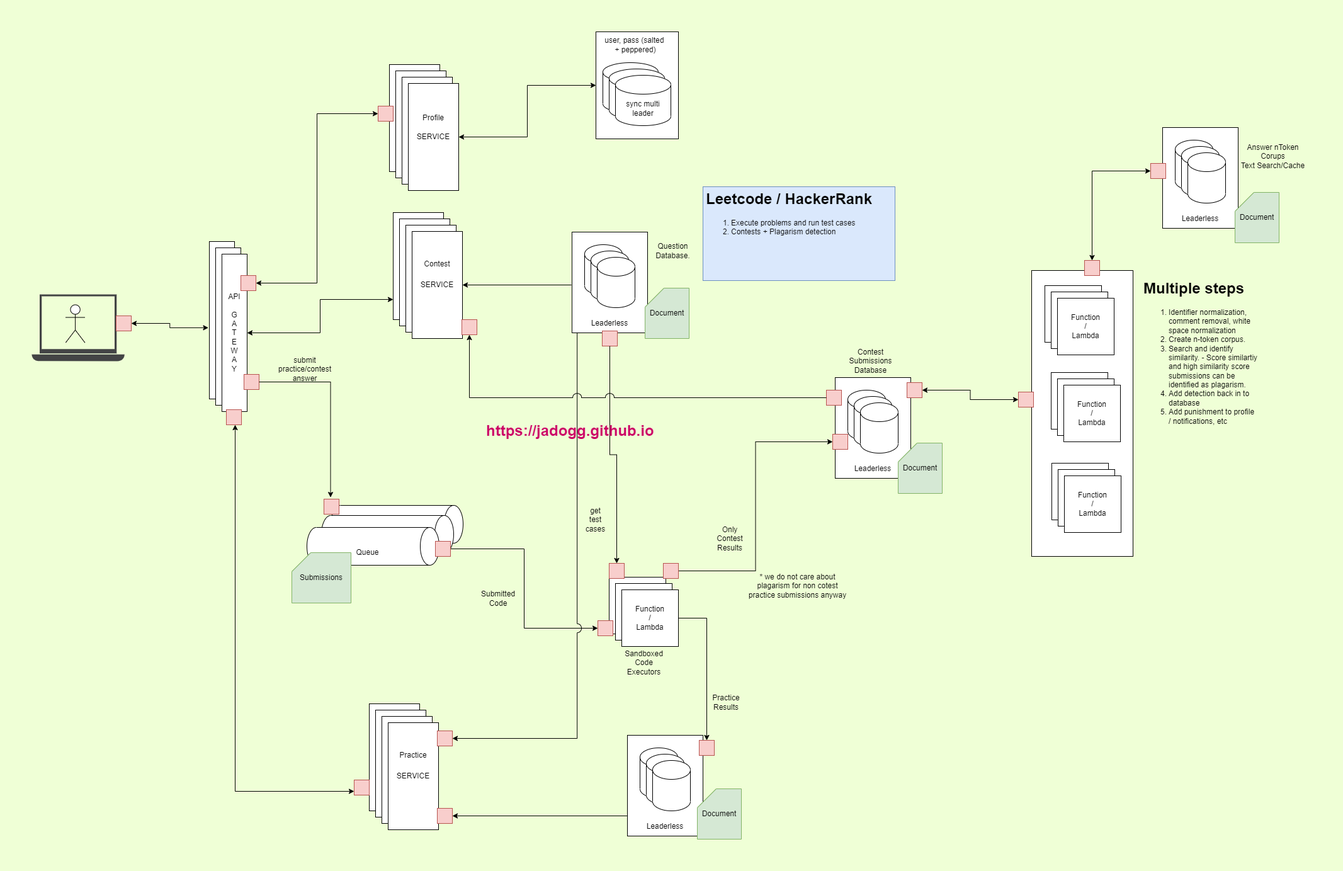
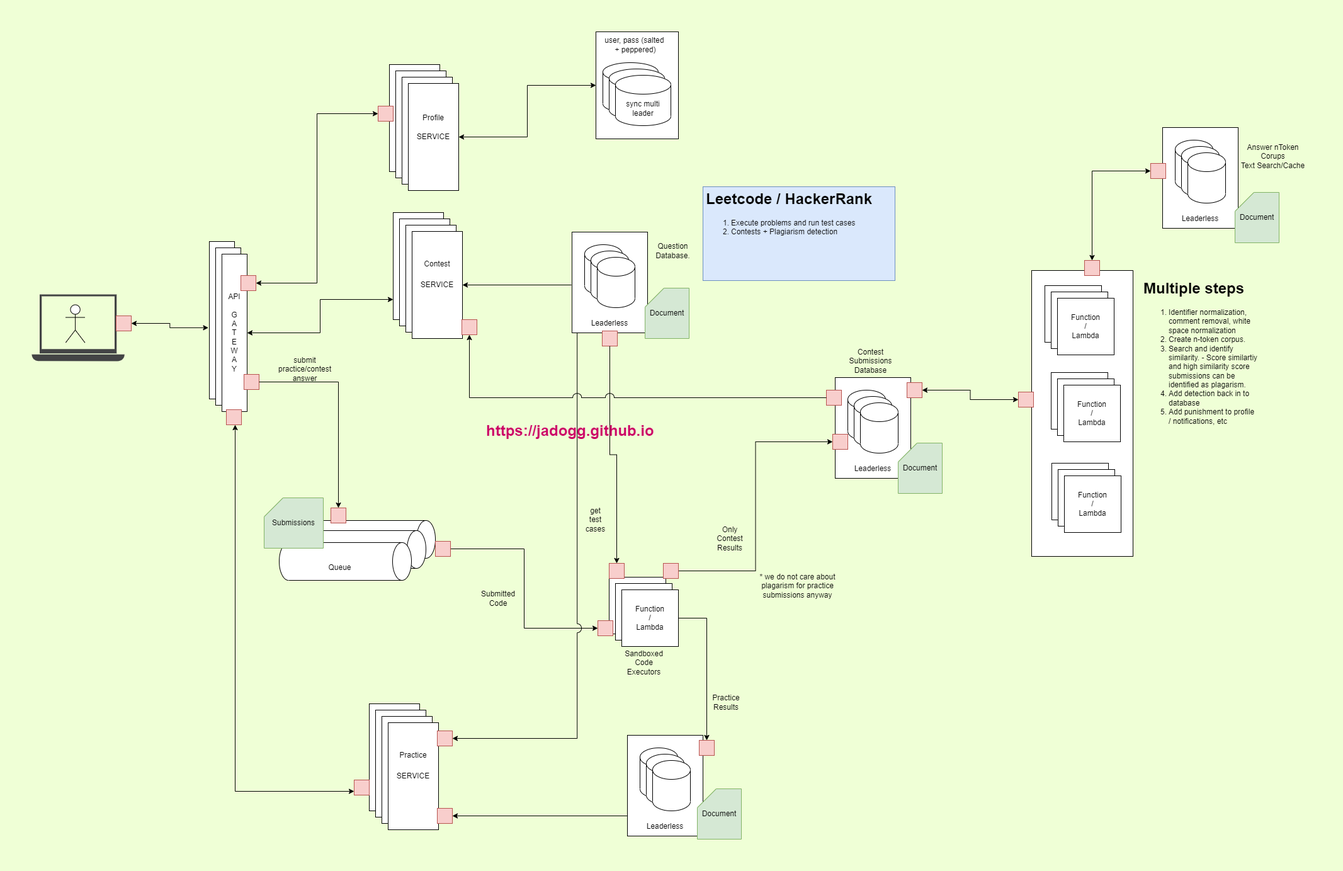
Fix numbering, added leetcode design rationale

Changed region(s): [[0.1857, 0.5597, 0.3713, 0.7151], [0.557, 0.6529, 0.6188, 0.684], [0.5879, 0.2487, 0.6188, 0.2798]]

diff --git a/docs/sdt.html b/docs/sdt.html
@@ -1,1 +1,1 @@
-<!doctypehtml><html lang="en"><meta charset="utf-8"><title>JaDogg&#x27;s Website</title><link rel="apple-touch-icon"sizes="180x180"href="/apple-touch-icon.png"><link rel="icon"type="image/png"sizes="32x32"href="/favicon-32x32.png"><link rel="icon"type="image/png"sizes="16x16"href="/favicon-16x16.png"><link rel="manifest"href="/site.webmanifest"><link rel="mask-icon"href="/safari-pinned-tab.svg"color="#5bbad5"><meta name="msapplication-TileColor"content="#da532c"><meta name="theme-color"content="#ffffff"><meta name="description"content="JaDogg&#x27;s Website"><meta name="viewport"content="width=device-width,initial-scale=1"><link rel="preconnect"href="https://fonts.googleapis.com"><link rel="preconnect"href="https://fonts.gstatic.com"crossorigin><link href="https://fonts.googleapis.com/css2?family=Roboto+Mono:wght@200&display=swap"rel="stylesheet"><link href="https://fonts.googleapis.com/css2?family=Ubuntu:wght@500&display=swap"rel="stylesheet"><link rel="stylesheet"href="/assets/style.min.css"id="theme-link"><div class="container"><h1 class="center-text">JaDogg&#x27;s Website</h1><div class="table-of-contents"><p>Pages<nav><a href="/">Home</a></nav><button id="btn-toggle"class="button action-button">Let there be light</button><div>&nbsp;</div><p>Projects</p><a href="/yaksha.html">YakshaLang</a> | <a href="/sdt.html">SystemDesignToolkit</a> | <a href="/docbox.html">DocBox</a><div class="real-toc"><div>&nbsp;</div><p>Table of Content<div class="toc-item"><a href="#introduction">[1] Introduction</a></div><div class="toc-item"><a href="#usage-samples">[2] Usage Samples</a></div><div class="toc-item"><a href="#tinder-system-design">[2.1] Tinder System Design</a></div><div class="toc-item"><a href="#how-to-find-people-close-to-you">[2.1.1] How to find people close to you?</a></div><div class="toc-item"><a href="#quad-tree">[2.1.1.1] Quad Tree</a></div><div class="toc-item"><a href="#querying-nearby-people">[2.1.1.2] Querying nearby people</a></div><div class="toc-item"><a href="#geo-sharding">[2.1.1.3] Geo-sharding</a></div><div class="toc-item"><a href="#matching-and-likes">[2.1.1.4] Matching and likes</a></div><div class="toc-item"><a href="#rest-of-the-system">[2.1.2] Rest of the system</a></div><div class="toc-item"><a href="#authentication-and-security">[2.1.2.1] Authentication and security</a></div><div class="toc-item"><a href="#storing-images">[2.1.2.2] Storing images</a></div><div class="toc-item"><a href="#caches-and-power-law-distribution">[2.1.2.2.1] Caches and power law distribution</a></div><div class="toc-item"><a href="#image-formats">[2.1.2.2.2] Image formats</a></div><div class="toc-item"><a href="#bibliography">[2.1.2.3] Bibliography</a></div><div class="toc-item"><a href="#leetcode-hacker-rank-system-design">[2.1.3] Leetcode / Hacker rank system design</a></div><div class="toc-item"><a href="#components">[3] Components</a></div><div class="toc-item"><a href="#services-and-related-components">[3.1] Services and related components</a></div><div class="toc-item"><a href="#service">[3.1.1] Service</a></div><div class="toc-item"><a href="#algorithms-and-data-structures">[3.2] Algorithms and data structures</a></div><div class="toc-item"><a href="#quad-tree">[3.2.1] Quad tree</a></div><div class="toc-item"><a href="#utilities">[3.3] Utilities</a></div><div class="toc-item"><a href="#pros-cons-box">[3.3.1] Pros-Cons Box</a></div></div></div><div class="boxes"><hr><div class="box"><div class="content"><div class="banner-image"><img alt="System Design Toolkit"src="images/system-design-tooklit-banner.png"style="max-width:100%"></div></div><div class="note"></div></div><div class="box"><div class="content"><h2 id="introduction">[1] Introduction</h2></div><div class="note"></div></div><div class="box"><div class="content"><p>I got an idea to come up with set of reusable (technology oblivious) building blocks for system design. Main point is you can either use it diagrams.net (or desktop version), whiteboard or any other tool you like. I use it myself and there's no reason for people other than me to use it. I'm designing this backwards from system design diagrams, so I will come up with multiple system designs and extract common components. Any form of constructive criticism is appreciated as usual.</div><div class="note"><p>🤔 Disagreeing for the sake of it is bad, cargo-culting is bad, somewhere middle is probably zen. - Me.</div></div><div class="box"><div class="content"><hr><h2 id="usage-samples">[2] Usage Samples</h2></div><div class="note"><hr></div></div><div class="box"><div class="content"><p>For usage examples I am planning on trying few system designs of well known software that anyone would be aware of. I'll be diving as deep as I think is necessary to explain my design here. By making myself come up with these designs I achieve two things. First of all I get to see what kind of common components are present in these system designs. I also get to publicly practice system design and expose myself to criticism.</div><div class="note"><p>Hopefully constructive criticism.</div></div><div class="box"><div class="content"><hr><h3 id="tinder-system-design">[2.1] Tinder System Design</h3></div><div class="note"><hr></div></div><div class="box"><div class="content"><a href="images/system-design-tinder.png"target="_blank"rel="noopener noreferrer"><img alt="Tinder Design, contain a diagram with arrows pointing to services"src="images/system-design-tinder.png"style="max-width:100%"></a></div><div class="note"><p>I'm up for suggestions. If you got an idea let me know.<p><span class="yellow-status">in progress</span></div></div><div class="box"><div class="content"><h4 id="how-to-find-people-close-to-you">[2.1.1] How to find people close to you?</h4><p>Main crux of this design is to find a suitable methodology to find people close to you.<ul><li><p>We can use Google S3 or Uber H3 - Both are ready-made libraries for this task.<li><p>We can use geo-hash prefix matching. This is a human-readable format, and you can easily look at two hashes and if they are closer based on the prefix.<li><p>Creating our own library - quad tree.</ul><h5 id="quad-tree">[2.1.1.1] Quad Tree</h5><p>This is an important data structure that we can use if we want to come up with this ourselves. Think of this as a structure that allows you to break down a square to four small squares, and you can keep going until it is very small. Internally it is a tree with 4 children.</p><img alt="3 Squares with quad-tree breakdown"src="images/sdt-quad-tree.png"style="max-width:100%"></div><div class="note"></div></div><div class="box"><div class="content"><h5 id="querying-nearby-people">[2.1.1.2] Querying nearby people</h5><p>In above design we assumed that we use can find nearby users by simply looking at the profile database. However, we did not dive deep into what we need to ensure that we properly distribute profile data so we do not brown out a single node.</div><div class="note"></div></div><div class="box"><div class="content"><h5 id="geo-sharding">[2.1.1.3] Geo-sharding</h5><p>Geo sharding is a concept where we map roughly similar user count regions of the world in to different shards of the database. This is a load balancing mechanism and a way to avoid querying a lot of nodes and wasting time. As explained in Tinder blog posts they came up with shards by experimenting and finding out which amount of shards and how it was distributed resulted in good p50, p90 and p99 latency metrics. Example - London can be placed in one geo-shard while most of the Australian desert can also be placed in a single geo-shard. So the actual number of users would impact this rather than surface area on Earth.</div><div class="note"><p>Geo-sharding is a form of load balancing.</div></div><div class="box"><div class="content"><h5 id="matching-and-likes">[2.1.1.4] Matching and likes</h5><p>For this I'm thinking we can use a queue and set of serverless functions/lambdas to process incoming likes and write that to a database/cache. And we can use another set of lambdas to turn matches to notifications.</div><div class="note"><p>System that can spin up on-demand functions and distributed queues are (sub)systems of this system.</div></div><div class="box"><div class="content"><h4 id="rest-of-the-system">[2.1.2] Rest of the system</h4></div><div class="note"></div></div><div class="box"><div class="content"><h5 id="authentication-and-security">[2.1.2.1] Authentication and security</h5><p>For a secure system we need to consider <code>AAA</code> (Authentication , Authorization, and Accounting). However, there is no need to do implement a <code>RBAC</code> (Role-based access control) for end-users of the system. They will all be able to log-in to their own account and use the application. <code>RBAC</code> and full <code>AAA</code> is however important for internal teams and any admin applications used internally.<p>So from system design perspective something like eventual consistency does not make sense for passwords. Passwords themselves we cannot store in a database like you would with any other data.<ul><li><p>OWASP recommend <code>Argon2id</code> these days (<code>scrypt</code> and <code>PBKDF2-HMAC-SHA512</code> with <code>120k</code> iterations is also sufficient).<li><p>We can also use <code>peppering</code> for further security.<li><p>Another alternative is to sign in using email and never store any passwords.<li><p>It is also better to avoid coming up with own cryptographical algorithms.<li><p>It is perfectly fine to write it yourself for everything else. Having too many dependencies open yourself up to a lot of vulnerabilities.</ul><p>Getting back to why not eventual consistency, it is because if you change the password - It needs either successfully change everywhere or not change at all. This disallows a bad actor to luck into the system.</div><div class="note"><p>We can design authentication as a system as well.</div></div><div class="box"><div class="content"><h5 id="storing-images">[2.1.2.2] Storing images</h5><p>For a service such as Tinder images are essential. However, images are not required to find nearby users. It is however essential for users to see other users' images. Therefore, we can use on-disk storage for images and have a reference to it in our profile database. So when a user browse a profile we can get request these images on demand. It make sense to use a distributed file system.</div><div class="note"><p><code>DFS</code> (Distributed file system) is a (sub)system that we use in this system.</div></div><div class="box"><div class="content"><h6 id="caches-and-power-law-distribution">[2.1.2.2.1] Caches and power law distribution</h6><p>Caches or in this case specifically a <code>CDN</code> (Content delivery network) which is also another system on its own can help us scale with the load to access these user images. Let's think of celebrity situation, suddenly a recently divorced famous actor/actress creates a Tinder account. Now everyone wants to look at their images and swipe (whatever side for like). This is a good use-case for a <code>CDN</code> as these celebrity images are now cached.<p>Since the number of requests for an account is distributed in a power law distribution due to pareto principle. We can assume that the CDN can use a <code>LRU</code> (Least recently used) cache eviction mechanism. This way most recently used image will be kept hot in the cache.</div><div class="note"><p>Likes, Money and Followers this all work in a power law distribution, those who have more will always get more.</div></div><div class="box"><div class="content"><h6 id="image-formats">[2.1.2.2.2] Image formats</h6><p>Thumbnails for images is essential, and we can use a lossy data format such as JPG for thumbnails. Another good alternative is WebP. Also, PNGs can be used if we need any crisp images, but we can just use JPG for that as well.</div><div class="note"><p>Google's WebP format is support across most browsers and platforms these days.</div></div><div class="box"><div class="content"><h4 id="bibliography">[2.1.2.3] Bibliography</h4><details><summary>Bibliography for Tinder Design</summary><small><small><p>AAA (computer security). (2022). Wikipedia. Available from https://en.wikipedia.org/w/index.php?title=AAA_(computer_security)&amp;oldid=1068643459 [Accessed 1 July 2022].<p>Designing Tinder - High Scalability -. (no date). Available from http://highscalability.com/blog/2022/1/17/designing-tinder.html [Accessed 1 July 2022].<p>Geometry on the Sphere: Google\x27s S2 Library. (no date). Available from https://docs.google.com/presentation/d/1Hl4KapfAENAOf4gv-pSngKwvS_jwNVHRPZTTDzXXn6Q [Accessed 1 July 2022].<p>GKQuadtree | Apple Developer Documentation. (no date). Available from https://developer.apple.com/documentation/gameplaykit/gkquadtree [Accessed 1 July 2022].<p>Li, X. (2019). Geosharded Recommendations Part 2: Architecture. Tinder Tech Blog. Available from https://medium.com/tinder/geosharded-recommendations-part-2-architecture-3396a8a7efb [Accessed 1 July 2022].<p>Pareto principle. (2022). Wikipedia. Available from https://en.wikipedia.org/w/index.php?title=Pareto_principle&amp;oldid=1095743858 [Accessed 1 July 2022].<p>Password Storage - OWASP Cheat Sheet Series. (no date). Available from https://cheatsheetseries.owasp.org/cheatsheets/Password_Storage_Cheat_Sheet.html#pbkdf2 [Accessed 1 July 2022].<p>Passwordless authentication. (2022). Wikipedia. Available from https://en.wikipedia.org/w/index.php?title=Passwordless_authentication&amp;oldid=1082243741 [Accessed 1 July 2022].<p>Power law. (2022). Wikipedia. Available from https://en.wikipedia.org/w/index.php?title=Power_law&amp;oldid=1091370904 [Accessed 1 July 2022].<p>Ren, F. (2019). Geosharded Recommendations Part 1: Sharding Approach. Tinder Tech Blog. Available from https://medium.com/tinder/geosharded-recommendations-part-1-sharding-approach-d5d54e0ec77a [Accessed 1 July 2022].<p>Role-based access control. (2022). Wikipedia. Available from https://en.wikipedia.org/w/index.php?title=Role-based_access_control&amp;oldid=1094481919 [Accessed 1 July 2022].<p>S2 Geometry. (no date). S2Geometry. Available from http://s2geometry.io/ [Accessed 1 July 2022].<p>Thomson, D. (2019). Geosharded Recommendations Part 3: Consistency. Tinder Tech Blog. Available from https://medium.com/tinder/geosharded-recommendations-part-3-consistency-2d2cb2f0594b [Accessed 1 July 2022].<p>Tran, J. (2019). Which Image Format for Making Smaller File Size? GretaThemes. Available from https://gretathemes.com/image-format-for-smaller-file-size/ [Accessed 1 July 2022].<p>UV mapping. (2022). Wikipedia. Available from https://en.wikipedia.org/w/index.php?title=UV_mapping&amp;oldid=1094514074 [Accessed 1 July 2022].<p>WebP Compression Study. (no date). Google Developers. Available from https://developers.google.com/speed/webp/docs/webp_study [Accessed 1 July 2022].<p>What is a Quadtree &amp; how is it used in location-based services? (no date). Available from https://www.educative.io/answers/what-is-a-quadtree-how-is-it-used-in-location-based-services [Accessed 1 July 2022].<p>Whited, S. (no date). Best practices for password hashing and storage. Internet Engineering Task Force. Available from https://datatracker.ietf.org/doc/draft-ietf-kitten-password-storage-04 [Accessed 1 July 2022].</small></small></details></div><div class="note"></div></div><div class="box"><div class="content"><hr><h3 id="leetcode-hacker-rank-system-design">[2.1.3] Leetcode / Hacker rank system design</h3></div><div class="note"><hr></div></div><div class="box"><div class="content"><a href="images/system-design-leetcode.png"target="_blank"rel="noopener noreferrer"><img alt="Tinder Design, contain a diagram with arrows pointing to services"src="images/system-design-leetcode.png"style="max-width:100%"></a></div><div class="note"><p>I'm up for suggestions for this as well.<p><span class="yellow-status">in progress</span></div></div><div class="box"><div class="content"><hr><h2 id="components">[3] Components</h2></div><div class="note"><hr></div></div><div class="box"><div class="content"><h3 id="services-and-related-components">[3.1] Services and related components</h3></div><div class="note"></div></div><div class="box"><div class="content"><h4 id="service">[3.1.1] Service</h4><img alt="Three squares on top of each other with service written in the middle"src="images/sdt-service.png"style="max-width:100%"><p>This is used for microservice components. Reason why I put multiple boxes here is to indicate that there are more than one service instance running.<p>Load balancing for this service is assumed to be dealt with. I do not think there's a reason to draw load balancers, but you can draw it if you wish.</div><div class="note"><p>This is different from function/lambda component.</div></div><div class="box"><div class="content"><h3 id="algorithms-and-data-structures">[3.2] Algorithms and data structures</h3></div><div class="note"></div></div><div class="box"><div class="content"><h4 id="quad-tree">[3.2.1] Quad tree</h4><img alt="3 Squares with quad-tree breakdown"src="images/sdt-quad-tree.png"style="max-width:100%"><p>Quad tree allows you to map a section to four subsections. One good use case is mapping a geographical area.</div><div class="note"></div></div><div class="box"><div class="content"><h3 id="utilities">[3.3] Utilities</h3></div><div class="note"></div></div><div class="box"><div class="content"><h4 id="pros-cons-box">[3.3.1] Pros-Cons Box</h4><img alt="Table with pros and cons specified as titles"src="images/sdt-pro-con.png"style="max-width:100%"><p>This is rather simple table to list pros and cons. Use it when you want to compare different technologies of decisions.</div><div class="note"><p>Pro - it got pros. Con - it got cons.</div></div></div></div><script>!function(){const e=document.querySelector("#btn-toggle"),s=document.querySelector("#theme-link"),t="jadogg.github.io/theme",n="Let there be light",i="I thrive in darkness";var l=localStorage.getItem(t);"/assets/style.min.css"!==l&&"/assets/style.light.min.css"!==l||(s.href=l,e.innerHTML="/assets/style.min.css"===l?n:i),e.addEventListener("click",function(){"/assets/style.min.css"===s.getAttribute("href")?(s.href="/assets/style.light.min.css",localStorage.setItem(t,"/assets/style.light.min.css"),e.innerHTML=i):(s.href="/assets/style.min.css",localStorage.setItem(t,"/assets/style.min.css"),e.innerHTML=n)})}()</script>
+<!doctypehtml><html lang="en"><meta charset="utf-8"><title>JaDogg&#x27;s Website</title><link rel="apple-touch-icon"sizes="180x180"href="/apple-touch-icon.png"><link rel="icon"type="image/png"sizes="32x32"href="/favicon-32x32.png"><link rel="icon"type="image/png"sizes="16x16"href="/favicon-16x16.png"><link rel="manifest"href="/site.webmanifest"><link rel="mask-icon"href="/safari-pinned-tab.svg"color="#5bbad5"><meta name="msapplication-TileColor"content="#da532c"><meta name="theme-color"content="#ffffff"><meta name="description"content="JaDogg&#x27;s Website"><meta name="viewport"content="width=device-width,initial-scale=1"><link rel="preconnect"href="https://fonts.googleapis.com"><link rel="preconnect"href="https://fonts.gstatic.com"crossorigin><link href="https://fonts.googleapis.com/css2?family=Roboto+Mono:wght@200&display=swap"rel="stylesheet"><link href="https://fonts.googleapis.com/css2?family=Ubuntu:wght@500&display=swap"rel="stylesheet"><link rel="stylesheet"href="/assets/style.min.css"id="theme-link"><div class="container"><h1 class="center-text">JaDogg&#x27;s Website</h1><div class="table-of-contents"><p>Pages<nav><a href="/">Home</a></nav><button id="btn-toggle"class="button action-button">Let there be light</button><div>&nbsp;</div><p>Projects</p><a href="/yaksha.html">YakshaLang</a> | <a href="/sdt.html">SystemDesignToolkit</a> | <a href="/docbox.html">DocBox</a><div class="real-toc"><div>&nbsp;</div><p>Table of Content<div class="toc-item"><a href="#introduction">[1] Introduction</a></div><div class="toc-item"><a href="#usage-samples">[2] Usage Samples</a></div><div class="toc-item"><a href="#tinder-system-design">[2.1] Tinder System Design</a></div><div class="toc-item"><a href="#how-to-find-people-close-to-you">[2.1.1] How to find people close to you?</a></div><div class="toc-item"><a href="#quad-tree">[2.1.1.1] Quad Tree</a></div><div class="toc-item"><a href="#querying-nearby-people">[2.1.1.2] Querying nearby people</a></div><div class="toc-item"><a href="#geo-sharding">[2.1.1.3] Geo-sharding</a></div><div class="toc-item"><a href="#matching-and-likes">[2.1.1.4] Matching and likes</a></div><div class="toc-item"><a href="#rest-of-the-system">[2.1.2] Rest of the system</a></div><div class="toc-item"><a href="#authentication-and-security">[2.1.2.1] Authentication and security</a></div><div class="toc-item"><a href="#storing-images">[2.1.2.2] Storing images</a></div><div class="toc-item"><a href="#caches-and-power-law-distribution">[2.1.2.2.1] Caches and power law distribution</a></div><div class="toc-item"><a href="#image-formats">[2.1.2.2.2] Image formats</a></div><div class="toc-item"><a href="#bibliography">[2.1.3] Bibliography</a></div><div class="toc-item"><a href="#leetcode-hacker-rank-system-design">[2.2] Leetcode / Hacker rank system design</a></div><div class="toc-item"><a href="#code-execution">[2.2.1] Code execution</a></div><div class="toc-item"><a href="#solution-a-docker-containers-on-lambdas-serverless">[2.2.1.1] Solution A: Docker containers on lambdas (serverless)</a></div><div class="toc-item"><a href="#solution-b-servers-that-take-work-from-a-queue-spin-up-docker-containers">[2.2.1.2] Solution B: Servers that take work from a queue spin up docker containers</a></div><div class="toc-item"><a href="#plagiarism-detection">[2.2.2] Plagiarism detection</a></div><div class="toc-item"><a href="#different-forms-of-cheating">[2.2.2.1] Different forms of cheating</a></div><div class="toc-item"><a href="#cheat-detection-process">[2.2.2.2] Cheat detection process</a></div><div class="toc-item"><a href="#solution-a-lambdas-with-step-function-execution">[2.2.2.2.1] Solution A: Lambdas with step function execution</a></div><div class="toc-item"><a href="#solution-b-coordinated-work-in-static-number-of-nodes">[2.2.2.2.2] Solution B: Coordinated work in static number of nodes</a></div><div class="toc-item"><a href="#bibliography">[2.2.3] Bibliography</a></div><div class="toc-item"><a href="#components">[3] Components</a></div><div class="toc-item"><a href="#services-and-related-components">[3.1] Services and related components</a></div><div class="toc-item"><a href="#service">[3.1.1] Service</a></div><div class="toc-item"><a href="#algorithms-and-data-structures">[3.2] Algorithms and data structures</a></div><div class="toc-item"><a href="#quad-tree">[3.2.1] Quad tree</a></div><div class="toc-item"><a href="#utilities">[3.3] Utilities</a></div><div class="toc-item"><a href="#pros-cons-box">[3.3.1] Pros-Cons Box</a></div></div></div><div class="boxes"><hr><div class="box"><div class="content"><div class="banner-image"><img alt="System Design Toolkit"src="images/system-design-tooklit-banner.png"style="max-width:100%"></div></div><div class="note"></div></div><div class="box"><div class="content"><h2 id="introduction">[1] Introduction</h2></div><div class="note"></div></div><div class="box"><div class="content"><p>I got an idea to come up with set of reusable (technology oblivious) building blocks for system design. Main point is you can either use it diagrams.net (or desktop version), whiteboard or any other tool you like. I use it myself and there's no reason for people other than me to use it. I'm designing this backwards from system design diagrams, so I will come up with multiple system designs and extract common components. Any form of constructive criticism is appreciated as usual.</div><div class="note"><p>🤔 Disagreeing for the sake of it is bad, cargo-culting is bad, somewhere middle is probably zen. - Me.</div></div><div class="box"><div class="content"><hr><h2 id="usage-samples">[2] Usage Samples</h2></div><div class="note"><hr></div></div><div class="box"><div class="content"><p>For usage examples I am planning on trying few system designs of well known software that anyone would be aware of. I'll be diving as deep as I think is necessary to explain my design here. By making myself come up with these designs I achieve two things. First of all I get to see what kind of common components are present in these system designs. I also get to publicly practice system design and expose myself to criticism.</div><div class="note"><p>Hopefully constructive criticism.</div></div><div class="box"><div class="content"><hr><h3 id="tinder-system-design">[2.1] Tinder System Design</h3></div><div class="note"><hr></div></div><div class="box"><div class="content"><a href="images/system-design-tinder.png"target="_blank"rel="noopener noreferrer"><img alt="Tinder Design, contain a diagram with arrows pointing to services"src="images/system-design-tinder.png"style="max-width:100%"></a></div><div class="note"><p>I'm up for suggestions. If you got an idea let me know.<p><span class="yellow-status">in progress</span></div></div><div class="box"><div class="content"><h4 id="how-to-find-people-close-to-you">[2.1.1] How to find people close to you?</h4><p>Main crux of this design is to find a suitable methodology to find people close to you.<ul><li><p>We can use Google S3 or Uber H3 - Both are ready-made libraries for this task.<li><p>We can use geo-hash prefix matching. This is a human-readable format, and you can easily look at two hashes and if they are closer based on the prefix.<li><p>Creating our own library - quad tree.</ul><h5 id="quad-tree">[2.1.1.1] Quad Tree</h5><p>This is an important data structure that we can use if we want to come up with this ourselves. Think of this as a structure that allows you to break down a square to four small squares, and you can keep going until it is very small. Internally it is a tree with 4 children.</p><img alt="3 Squares with quad-tree breakdown"src="images/sdt-quad-tree.png"style="max-width:100%"></div><div class="note"></div></div><div class="box"><div class="content"><h5 id="querying-nearby-people">[2.1.1.2] Querying nearby people</h5><p>In above design we assumed that we use can find nearby users by simply looking at the profile database. However, we did not dive deep into what we need to ensure that we properly distribute profile data so we do not brown out a single node.</div><div class="note"></div></div><div class="box"><div class="content"><h5 id="geo-sharding">[2.1.1.3] Geo-sharding</h5><p>Geo sharding is a concept where we map roughly similar user count regions of the world in to different shards of the database. This is a load balancing mechanism and a way to avoid querying a lot of nodes and wasting time. As explained in Tinder blog posts they came up with shards by experimenting and finding out which amount of shards and how it was distributed resulted in good p50, p90 and p99 latency metrics. Example - London can be placed in one geo-shard while most of the Australian desert can also be placed in a single geo-shard. So the actual number of users would impact this rather than surface area on Earth.</div><div class="note"><p>Geo-sharding is a form of load balancing.</div></div><div class="box"><div class="content"><h5 id="matching-and-likes">[2.1.1.4] Matching and likes</h5><p>For this I'm thinking we can use a queue and set of serverless functions/lambdas to process incoming likes and write that to a database/cache. And we can use another set of lambdas to turn matches to notifications.</div><div class="note"><p>System that can spin up on-demand functions and distributed queues are (sub)systems of this system.</div></div><div class="box"><div class="content"><h4 id="rest-of-the-system">[2.1.2] Rest of the system</h4></div><div class="note"></div></div><div class="box"><div class="content"><h5 id="authentication-and-security">[2.1.2.1] Authentication and security</h5><p>For a secure system we need to consider <code>AAA</code> (Authentication , Authorization, and Accounting). However, there is no need to do implement a <code>RBAC</code> (Role-based access control) for end-users of the system. They will all be able to log-in to their own account and use the application. <code>RBAC</code> and full <code>AAA</code> is however important for internal teams and any admin applications used internally.<p>So from system design perspective something like eventual consistency does not make sense for passwords. Passwords themselves we cannot store in a database like you would with any other data.<ul><li><p>OWASP recommend <code>Argon2id</code> these days (<code>scrypt</code> and <code>PBKDF2-HMAC-SHA512</code> with <code>120k</code> iterations is also sufficient).<li><p>We can also use <code>peppering</code> for further security.<li><p>Another alternative is to sign in using email and never store any passwords.<li><p>It is also better to avoid coming up with own cryptographical algorithms.<li><p>It is perfectly fine to write it yourself for everything else. Having too many dependencies open yourself up to a lot of vulnerabilities.</ul><p>Getting back to why not eventual consistency, it is because if you change the password - It needs either successfully change everywhere or not change at all. This disallows a bad actor to luck into the system.</div><div class="note"><p>We can design authentication as a system as well.</div></div><div class="box"><div class="content"><h5 id="storing-images">[2.1.2.2] Storing images</h5><p>For a service such as Tinder images are essential. However, images are not required to find nearby users. It is however essential for users to see other users' images. Therefore, we can use on-disk storage for images and have a reference to it in our profile database. So when a user browse a profile we can get request these images on demand. It make sense to use a distributed file system.</div><div class="note"><p><code>DFS</code> (Distributed file system) is a (sub)system that we use in this system.</div></div><div class="box"><div class="content"><h6 id="caches-and-power-law-distribution">[2.1.2.2.1] Caches and power law distribution</h6><p>Caches or in this case specifically a <code>CDN</code> (Content delivery network) which is also another system on its own can help us scale with the load to access these user images. Let's think of celebrity situation, suddenly a recently divorced famous actor/actress creates a Tinder account. Now everyone wants to look at their images and swipe (whatever side for like). This is a good use-case for a <code>CDN</code> as these celebrity images are now cached.<p>Since the number of requests for an account is distributed in a power law distribution due to pareto principle. We can assume that the CDN can use a <code>LRU</code> (Least recently used) cache eviction mechanism. This way most recently used image will be kept hot in the cache.</div><div class="note"><p>Likes, Money and Followers this all work in a power law distribution, those who have more will always get more.</div></div><div class="box"><div class="content"><h6 id="image-formats">[2.1.2.2.2] Image formats</h6><p>Thumbnails for images is essential, and we can use a lossy data format such as JPG for thumbnails. Another good alternative is WebP. Also, PNGs can be used if we need any crisp images, but we can just use JPG for that as well.</div><div class="note"><p>Google's WebP format is supported across most browsers and platforms these days.</div></div><div class="box"><div class="content"><h4 id="bibliography">[2.1.3] Bibliography</h4><details><summary>Bibliography for Tinder Design</summary><small><small><p>AAA (computer security). (2022). Wikipedia. Available from https://en.wikipedia.org/w/index.php?title=AAA_(computer_security)&amp;oldid=1068643459 [Accessed 1 July 2022].<p>Designing Tinder - High Scalability -. (no date). Available from http://highscalability.com/blog/2022/1/17/designing-tinder.html [Accessed 1 July 2022].<p>Geometry on the Sphere: Google\x27s S2 Library. (no date). Available from https://docs.google.com/presentation/d/1Hl4KapfAENAOf4gv-pSngKwvS_jwNVHRPZTTDzXXn6Q [Accessed 1 July 2022].<p>GKQuadtree | Apple Developer Documentation. (no date). Available from https://developer.apple.com/documentation/gameplaykit/gkquadtree [Accessed 1 July 2022].<p>Li, X. (2019). Geosharded Recommendations Part 2: Architecture. Tinder Tech Blog. Available from https://medium.com/tinder/geosharded-recommendations-part-2-architecture-3396a8a7efb [Accessed 1 July 2022].<p>Pareto principle. (2022). Wikipedia. Available from https://en.wikipedia.org/w/index.php?title=Pareto_principle&amp;oldid=1095743858 [Accessed 1 July 2022].<p>Password Storage - OWASP Cheat Sheet Series. (no date). Available from https://cheatsheetseries.owasp.org/cheatsheets/Password_Storage_Cheat_Sheet.html#pbkdf2 [Accessed 1 July 2022].<p>Passwordless authentication. (2022). Wikipedia. Available from https://en.wikipedia.org/w/index.php?title=Passwordless_authentication&amp;oldid=1082243741 [Accessed 1 July 2022].<p>Power law. (2022). Wikipedia. Available from https://en.wikipedia.org/w/index.php?title=Power_law&amp;oldid=1091370904 [Accessed 1 July 2022].<p>Ren, F. (2019). Geosharded Recommendations Part 1: Sharding Approach. Tinder Tech Blog. Available from https://medium.com/tinder/geosharded-recommendations-part-1-sharding-approach-d5d54e0ec77a [Accessed 1 July 2022].<p>Role-based access control. (2022). Wikipedia. Available from https://en.wikipedia.org/w/index.php?title=Role-based_access_control&amp;oldid=1094481919 [Accessed 1 July 2022].<p>S2 Geometry. (no date). S2Geometry. Available from http://s2geometry.io/ [Accessed 1 July 2022].<p>Thomson, D. (2019). Geosharded Recommendations Part 3: Consistency. Tinder Tech Blog. Available from https://medium.com/tinder/geosharded-recommendations-part-3-consistency-2d2cb2f0594b [Accessed 1 July 2022].<p>Tran, J. (2019). Which Image Format for Making Smaller File Size? GretaThemes. Available from https://gretathemes.com/image-format-for-smaller-file-size/ [Accessed 1 July 2022].<p>UV mapping. (2022). Wikipedia. Available from https://en.wikipedia.org/w/index.php?title=UV_mapping&amp;oldid=1094514074 [Accessed 1 July 2022].<p>WebP Compression Study. (no date). Google Developers. Available from https://developers.google.com/speed/webp/docs/webp_study [Accessed 1 July 2022].<p>What is a Quadtree &amp; how is it used in location-based services? (no date). Available from https://www.educative.io/answers/what-is-a-quadtree-how-is-it-used-in-location-based-services [Accessed 1 July 2022].<p>Whited, S. (no date). Best practices for password hashing and storage. Internet Engineering Task Force. Available from https://datatracker.ietf.org/doc/draft-ietf-kitten-password-storage-04 [Accessed 1 July 2022].</small></small></details></div><div class="note"></div></div><div class="box"><div class="content"><hr><h3 id="leetcode-hacker-rank-system-design">[2.2] Leetcode / Hacker rank system design</h3></div><div class="note"><hr></div></div><div class="box"><div class="content"><a href="images/system-design-leetcode.png"target="_blank"rel="noopener noreferrer"><img alt="Leetcode Design, contain a diagram with arrows pointing to services"src="images/system-design-leetcode.png"style="max-width:100%"></a></div><div class="note"><p>I'm up for suggestions for this as well.<p><span class="yellow-status">in progress</span></div></div><div class="box"><div class="content"><h4 id="code-execution">[2.2.1] Code execution</h4></div><div class="note"></div></div><div class="box"><div class="content"><p>Sandboxed code execution is one of the main features of an online judge platforms.<ul><li><p>Need to be isolated from the rest of the system - this is because some executed code can be malicious.<ul><li><p>Would be a good idea to disable everything except stdin/stdout as input output mechanisms.<li><p>No access to internet is a must as that opens us up to more risks.</ul><li><p>Need to be flexible enough to run different supported compilers and interpreters.<li><p>In case of endless loops or the solution taking too much time we need to timeout.<li><p>Need to be able to handle scale of increased load to judge system.<ul><li><p>Either by queuing input or rejecting.<li><p>Can also dynamically scale with more nodes if needed.</ul></ul></div><div class="note"></div></div><div class="box"><div class="content"><h5 id="solution-a-docker-containers-on-lambdas-serverless">[2.2.1.1] Solution A: Docker containers on lambdas (serverless)</h5><ul><li><p>👍 Can scale up with more functions, of course that would also cost more.<li><p>👍 Less hassle to set up if you wish to go this route.<li><p>👍 Built in timeout logic.<li><p>👍 Paid only for usage when lambdas are run.</ul></div><div class="note"><p>It is almost as if lambdas were built for this. 😏</div></div><div class="box"><div class="content"><h5 id="solution-b-servers-that-take-work-from-a-queue-spin-up-docker-containers">[2.2.1.2] Solution B: Servers that take work from a queue spin up docker containers</h5><ul><li><p>👍 Fixed cost if sufficient servers are present.<li><p>👎 Same cost even if there are no usage.<li><p>👎 Cannot scale up as needed and more servers need to be added manually.<li><p>👎 Need to come up with services that can take work from a queue and spin up docker containers<li><p>👎 Server CPU/RAM monitoring is required to see that a container does not use too much resources.<li><p>👎 Need to implement timing out logic.</ul></div><div class="note"></div></div><div class="box"><div class="content"><h4 id="plagiarism-detection">[2.2.2] Plagiarism detection</h4></div><div class="note"></div></div><div class="box"><div class="content"><p>It is possible to create an online judge system without a plagiarism detection method. However, it is needed if we want to run contests. Contestants will cheat and there should be a way to detect it.<h5 id="different-forms-of-cheating">[2.2.2.1] Different forms of cheating</h5></div><div class="note"></div></div><div class="box"><div class="content"><ul><li><p>A: Just copying and pasting same answer<li><p>B: Copying and pasting same answer with different comments, whitespace changes.<li><p>C: Variable name, function name changes<li><p>D: Combination of both B and C.<li><p>E: Partial similarities + D.</ul></div><div class="note"><p>If you rewrite it as a complete different algorithm it is not possible detect. However, this is sufficient for what we need to do. Even coming up with a way to detect A or B type of cheating would be useful.</div></div><div class="box"><div class="content"><h5 id="cheat-detection-process">[2.2.2.2] Cheat detection process</h5></div><div class="note"></div></div><div class="box"><div class="content"><p>I would implement cheat detection as a multistep process. We can have coordinated lambda executions to achieve this. There are few ways to implement cheat detection process.<h6 id="solution-a-lambdas-with-step-function-execution">[2.2.2.2.1] Solution A: Lambdas with step function execution</h6><ul><li><p>👍 Steps are coordinated using step functions.<li><p>👍 Can scale number of lambdas needed.</ul><h6 id="solution-b-coordinated-work-in-static-number-of-nodes">[2.2.2.2.2] Solution B: Coordinated work in static number of nodes</h6><ul><li><p>👎 Will require implementation for coordination<li><p>👎 Scale up require manually adding servers to the pool.</ul></div><div class="note"></div></div><div class="box"><div class="content"><h4 id="bibliography">[2.2.3] Bibliography</h4></div><div class="note"></div></div><div class="box"><div class="content"><details><summary>Bibliography for Leetcode / Hacker rank system design</summary><small><small><p>AWS Step Functions | Serverless Visual Workflows | Amazon Web Services. (no date). Amazon Web Services, Inc. Available from https://aws.amazon.com/step-functions/ [Accessed 3 July 2022].<p>AWS Step Functions FAQs | Serverless Microservice Orchestration | Amazon Web Services. (no date). Amazon Web Services, Inc. Available from https://aws.amazon.com/step-functions/faqs/ [Accessed 3 July 2022].<p>Bag-of-words model. (2022). Wikipedia. Available from https://en.wikipedia.org/w/index.php?title=Bag-of-words_model&amp;oldid=1087243933 [Accessed 2 July 2022].<p>Belkhouche, B., Nix, A. and Hassell, J. (2004). Plagiarism detection in software designs. Proceedings of the 42nd annual Southeast regional conference on - ACM-SE 42. 2004. Huntsville, Alabama: ACM Press, 207. Available from https://doi.org/10.1145/986537.986585 [Accessed 2 July 2022].<p>Cosma, G. and Joy, M. (2012). An Approach to Source-Code Plagiarism Detection and Investigation Using Latent Semantic Analysis. IEEE Transactions on Computers, 61 (3), 379–394. Available from https://doi.org/10.1109/TC.2011.223.<p>Designing Online Judge or Leetcode. (2020). TianPan.co. Available from https://tianpan.co/notes/243-designing-online-judge-or-leetcode [Accessed 2 July 2022].<p>Getting Started with ssdeep. (no date). Available from https://ssdeep-project.github.io/ssdeep/usage.html [Accessed 2 July 2022].<p>Introduction to Document Similarity with Elasticsearch. (no date). Capsicum. Available from https://rebeccabilbro.github.io/intro-doc-similarity-with-elasticsearch/ [Accessed 2 July 2022].<p>Okapi BM25. (2022). Wikipedia. Available from https://en.wikipedia.org/w/index.php?title=Okapi_BM25&amp;oldid=1082128332 [Accessed 2 July 2022].<p>Plagiarism detection in your submitted code. (no date). HackerRank Support Center. Available from https://support.hackerrank.com/hc/en-us/articles/360018050274-Plagiarism-detection-in-your-submitted-code [Accessed 2 July 2022].<p>Tresnawati, D., Syaichu R, A., and Kuspriyanto. (2012). Plagiarism Detection System Design for Programming Assignment in Virtual Classroom based on Moodle. Procedia - Social and Behavioral Sciences, 67, 114–122. Available from https://doi.org/10.1016/j.sbspro.2012.11.312.</small></small></details></div><div class="note"></div></div><div class="box"><div class="content"></div><div class="note"></div></div><div class="box"><div class="content"><hr><h2 id="components">[3] Components</h2></div><div class="note"><hr></div></div><div class="box"><div class="content"><h3 id="services-and-related-components">[3.1] Services and related components</h3></div><div class="note"></div></div><div class="box"><div class="content"><h4 id="service">[3.1.1] Service</h4><img alt="Three squares on top of each other with service written in the middle"src="images/sdt-service.png"style="max-width:100%"><p>This is used for microservice components. Reason why I put multiple boxes here is to indicate that there are more than one service instance running.<p>Load balancing for this service is assumed to be dealt with. I do not think there's a reason to draw load balancers, but you can draw it if you wish.</div><div class="note"><p>This is different from function/lambda component.</div></div><div class="box"><div class="content"><h3 id="algorithms-and-data-structures">[3.2] Algorithms and data structures</h3></div><div class="note"></div></div><div class="box"><div class="content"><h4 id="quad-tree">[3.2.1] Quad tree</h4><img alt="3 Squares with quad-tree breakdown"src="images/sdt-quad-tree.png"style="max-width:100%"><p>Quad tree allows you to map a section to four subsections. One good use case is mapping a geographical area.</div><div class="note"></div></div><div class="box"><div class="content"><h3 id="utilities">[3.3] Utilities</h3></div><div class="note"></div></div><div class="box"><div class="content"><h4 id="pros-cons-box">[3.3.1] Pros-Cons Box</h4><img alt="Table with pros and cons specified as titles"src="images/sdt-pro-con.png"style="max-width:100%"><p>This is rather simple table to list pros and cons. Use it when you want to compare different technologies of decisions.</div><div class="note"><p>Pro - it got pros. Con - it got cons.</div></div></div></div><script>!function(){const e=document.querySelector("#btn-toggle"),s=document.querySelector("#theme-link"),t="jadogg.github.io/theme",n="Let there be light",i="I thrive in darkness";var l=localStorage.getItem(t);"/assets/style.min.css"!==l&&"/assets/style.light.min.css"!==l||(s.href=l,e.innerHTML="/assets/style.min.css"===l?n:i),e.addEventListener("click",function(){"/assets/style.min.css"===s.getAttribute("href")?(s.href="/assets/style.light.min.css",localStorage.setItem(t,"/assets/style.light.min.css"),e.innerHTML=i):(s.href="/assets/style.min.css",localStorage.setItem(t,"/assets/style.min.css"),e.innerHTML=n)})}()</script>
